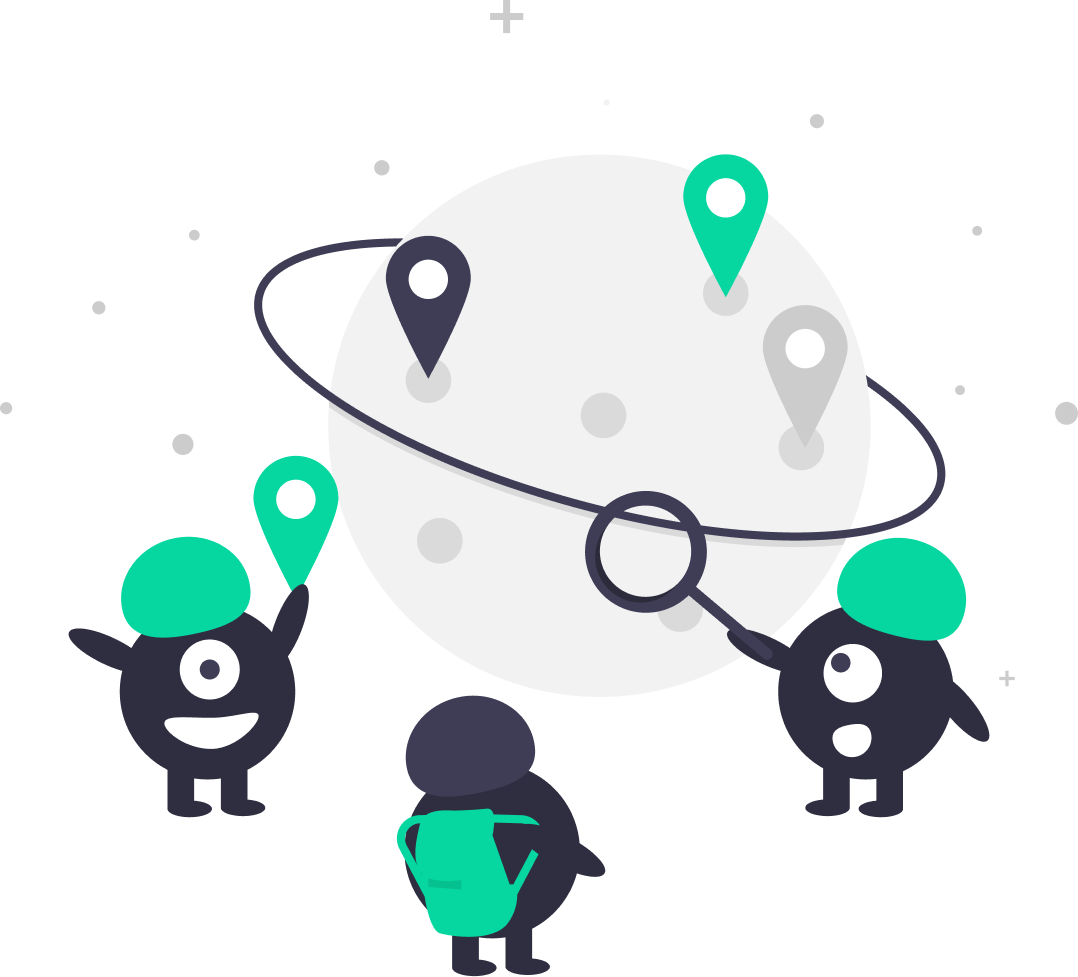
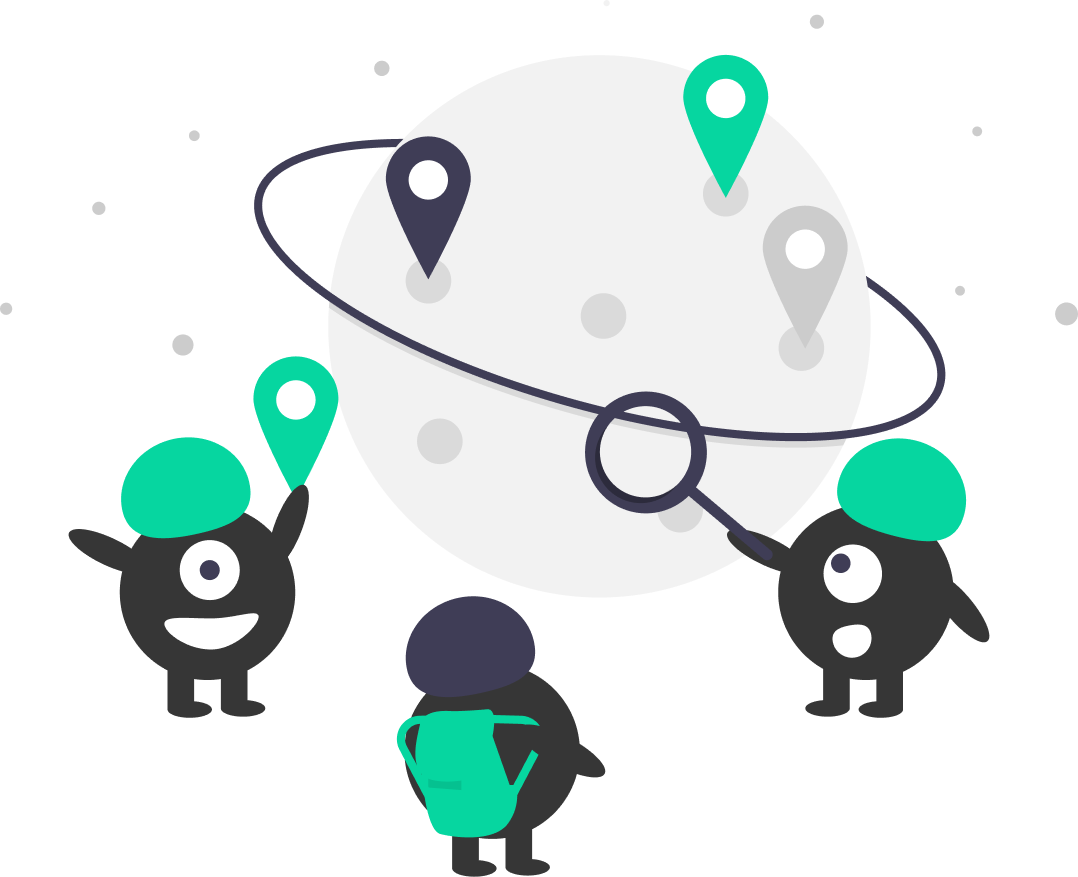
Place image under text

diff --git a/src/Components/Homepage/Homepage.js b/src/Components/Homepage/Homepage.js
@@ -1,4 +1,5 @@
 import './Homepage.scss';
+import TravelAliens from '../../assets/travel_aliens.png'
 import { Link } from 'react-router-dom';
 import { useSelector, useDispatch } from 'react-redux';
 import { addUser } from '../../state/userSlice';
@@ -10,7 +11,7 @@ const Homepage = () => {
 
   const addNewPerson = () => {
     dispatch(
-      addUser({name: 'Lola'})
+      addUser({ name: 'Lola' })
     )
     console.log(newName)
   }
@@ -22,15 +23,17 @@ const Homepage = () => {
         <h1>Free Tomorrow?</h1>
         <h2>An app that helps you get your travel plans out of the air and onto the ground.</h2>
       </section>
-    
+
       <div className="start-btn-container">
-        <Link to="/schedule" className="start-link" style={{width: "fit-content"}}>
+        <Link to="/schedule" className="start-link" style={{ width: "fit-content" }}>
           <button className="start-btn" onClick={addNewPerson}>Let's get started</button>
         </Link>
       </div>
-      {/* <img src={TravelAliens} className="aliens-img" alt="one eyed aliens"/> */}
 
-      
+      <img src={TravelAliens} className="aliens-img" alt="one eyed aliens" />
+
+
+
     </div>
   )
 }

diff --git a/src/Components/Homepage/Homepage.scss b/src/Components/Homepage/Homepage.scss
@@ -3,19 +3,33 @@
 
 .homepage {
   background-color: $primary-color;
-  background-image: url('../../assets/travel_aliens.png');
-  background-size: 30em;
-  background-repeat: no-repeat;
-  background-position:right;
   display: flex;
   flex-direction: column;
   flex-wrap: wrap;
-  align-items:center;
   border: 1px solid purple;
   height: 80vh;
+  position:relative;
 }
 
+
+// .homepage::before{
+//   content: "";
+//   background-image: url(http://localhost:3000/static/media/travel_aliens.23f539de23e82df94967.png);
+//   position: fixed;
+//   right: 0;
+//   left: 0;
+//   top: 22%;
+//   bottom: 0;
+//   background-size: 55vw;
+//   background-repeat: no-repeat;
+//   background-position: right;
+// }
+
+
+
 .welcome-txt {
+  position: relative;
+  z-index: 100;
   width: 50%;
   border: 1px solid red;
   line-height: 1.3;
@@ -56,6 +70,14 @@
   padding: 25px 15px;
   font-family:"Poppins", sans-serif;
   // font-family:'Sulphur Point', sans-serif;
+}
+
+.aliens-img{
+  width: 31em;
+  height: auto;
+  position: relative;
+  top: 20%;
+  right: 35%;
 }
 
 @media screen and(max-width: 1000px) {
